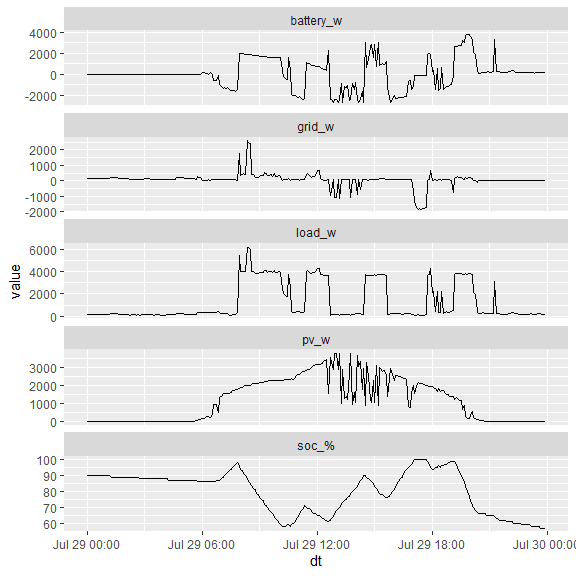
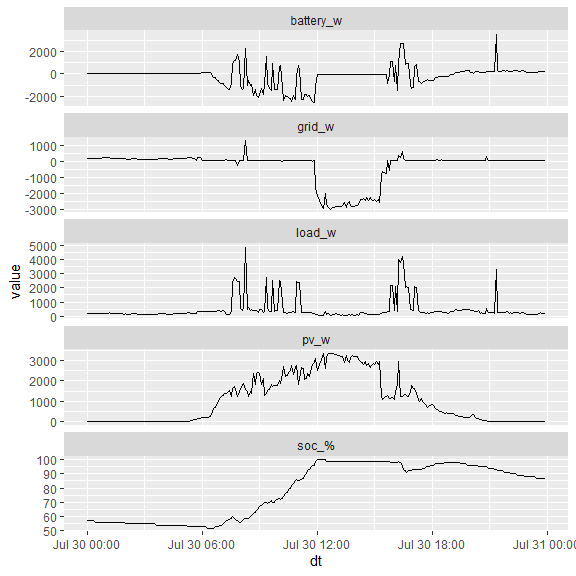
R CMD Check action

diff --git a/README.md b/README.md
@@ -4,6 +4,8 @@
 # sunsynkr
 
 <!-- badges: start -->
+
+[![R-CMD-check](https://github.com/DavidASmith/sunsynkr/actions/workflows/R-CMD-check.yaml/badge.svg)](https://github.com/DavidASmith/sunsynkr/actions/workflows/R-CMD-check.yaml)
 <!-- badges: end -->
 
 `sunsynkr` is an R package to help you acquire information about Sunsynk
@@ -77,7 +79,7 @@ plants
 #> # A tibble: 1 × 7
 #>   id     name        address                         pac etoday etotal update_at
 #>   <chr>  <chr>       <chr>                         <int>  <dbl>  <dbl> <chr>    
-#> 1 XXXXXX XXXXX XXXXX XX XXXXXXX XX, XXXXXXXXX XXX…     0   24.7  7370. 2024-07-…
+#> 1 XXXXXX XXXXX XXXXX XX XXXXXXX XX, XXXXXXXXX XXX…     0   27.3  7398. 2024-07-…
 ```
 
 ### Flow
@@ -101,14 +103,14 @@ power flows managed by the inverter.
 
 ``` r
 flow
-#>   PV    0W -----                --<--   17W Grid
+#>   PV    0W -----                --<--   19W Grid
 #>                |    -------     |
 #>                -----|     |--<--
 #>                     | Inv |
 #>                -->--|     |-->--
 #>                |    -------     |
-#> BATT  188W -->--                -->--  194W Load
-#>      (88%)
+#> BATT  152W -->--                -->--  166W Load
+#>      (89%)
 ```
 
 ### Day summary
@@ -128,16 +130,16 @@ day_summary_table
 #> # A tibble: 288 × 6
 #>    dt                   pv_w battery_w `soc_%` load_w grid_w
 #>    <dttm>              <dbl>     <dbl>   <dbl>  <dbl>  <dbl>
-#>  1 2024-07-29 00:00:00     0        19      90    167    152
-#>  2 2024-07-29 00:05:00     0        19      90    165    150
-#>  3 2024-07-29 00:10:00     0        21      90    166    150
-#>  4 2024-07-29 00:15:00     0        19      90    166    153
-#>  5 2024-07-29 00:20:00     0        21      90    163    150
-#>  6 2024-07-29 00:25:00     0        21      90    165    145
-#>  7 2024-07-29 00:30:00     0        18      90    164    149
-#>  8 2024-07-29 00:35:00     0        20      90    164    146
-#>  9 2024-07-29 00:40:00     0        17      90    163    148
-#> 10 2024-07-29 00:45:00     0        20      90    164    147
+#>  1 2024-07-30 00:00:00     0        15      57    172    162
+#>  2 2024-07-30 00:05:00     0        14      57    172    160
+#>  3 2024-07-30 00:10:00     0        17      57    169    154
+#>  4 2024-07-30 00:15:00     0        15      57    170    155
+#>  5 2024-07-30 00:20:00     0        13      57    161    161
+#>  6 2024-07-30 00:25:00     0        16      56    171    159
+#>  7 2024-07-30 00:30:00     0        17      56    166    149
+#>  8 2024-07-30 00:35:00     0        17      56    167    153
+#>  9 2024-07-30 00:40:00     0        16      56    170    157
+#> 10 2024-07-30 00:45:00     0        13      56    165    153
 #> # ℹ 278 more rows
 ```
 
